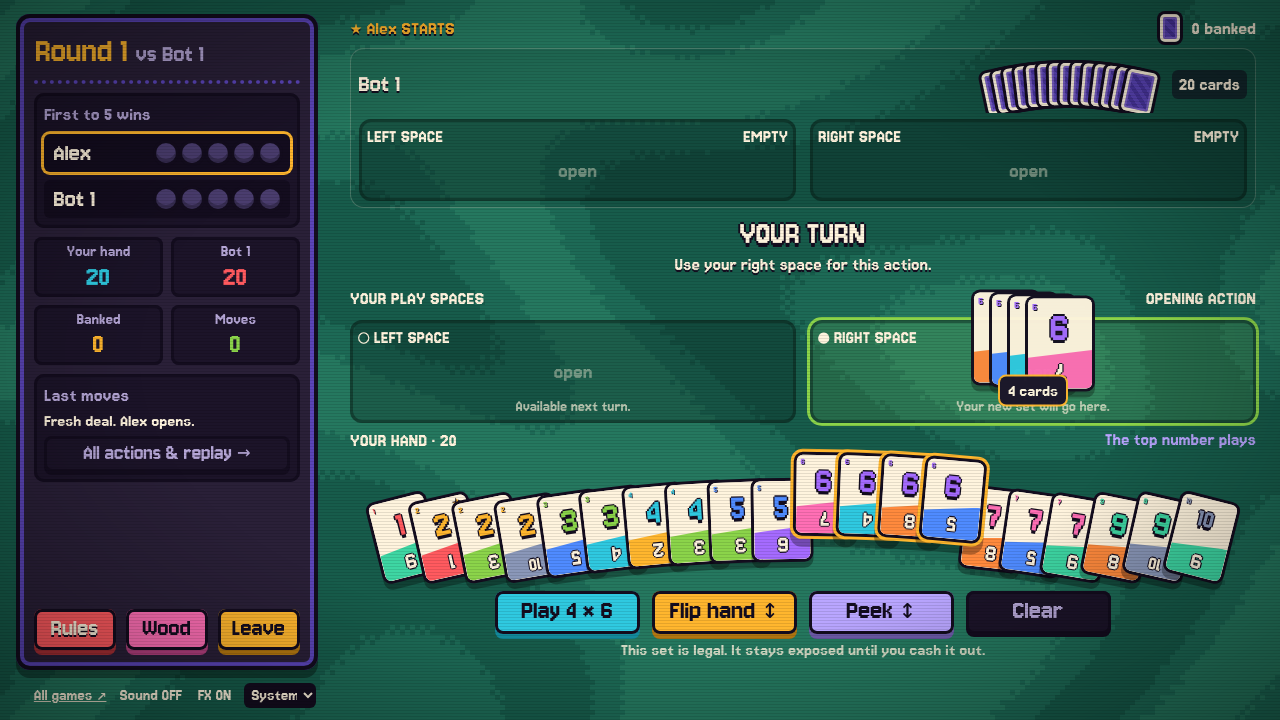
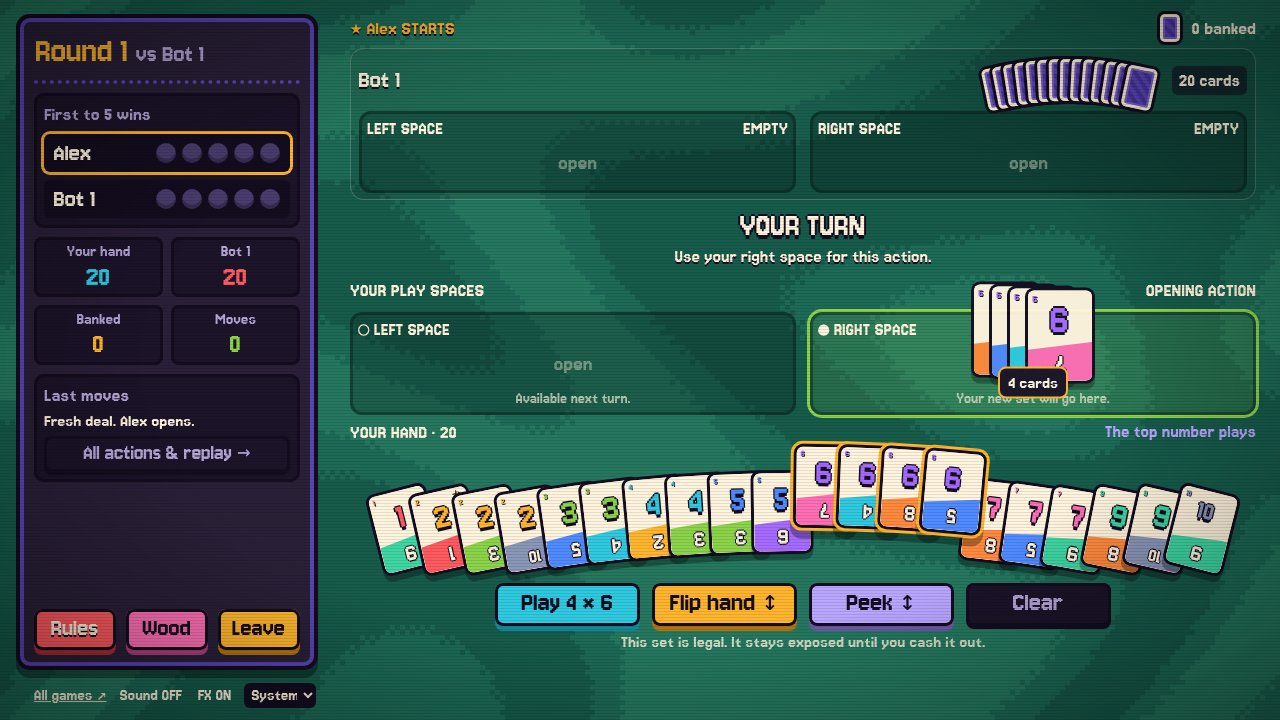
Finish touch drag handling and add browser UI regression checks

diff --git a/flip-it/src/app.js b/flip-it/src/app.js
@@ -559,22 +559,36 @@ document.addEventListener('pointerdown',event=>{
     if(view().table[owner][target].length)drag={pointer:event.pointerId,x:event.clientX,y:event.clientY,kind:'take',owner,target,source:space};
   }
 });
+function highlightDrop(current){
+  document.querySelectorAll('.drop-valid').forEach(n=>n.classList.remove('drop-valid'));
+  const at=document.elementFromPoint(current.pointerX,current.pointerY),action=dragAction(current,at);
+  if(action&&actionValid(current.actions,action))at.closest(action.kind==='take'?'.hand[data-hand-seat]':'[data-space-seat]')?.classList.add('drop-valid');
+}
+function scrollDrag(){
+  if(!drag?.ghost)return;
+  const edge=44,y=drag.pointerY,step=y<edge?-12:y>innerHeight-edge?12:0;
+  if(step){const previous=scrollY;window.scrollBy(0,step);if(scrollY!==previous)highlightDrop(drag);}
+  drag.frame=requestAnimationFrame(scrollDrag);
+}
 document.addEventListener('pointermove',event=>{
   if(!drag||drag.pointer!==event.pointerId)return;
   if(!drag.ghost&&Math.hypot(event.clientX-drag.x,event.clientY-drag.y)<8)return;
+  drag.pointerX=event.clientX;drag.pointerY=event.clientY;
   if(!drag.ghost){
     drag.ghost=dragPreview(drag);document.body.append(drag.ghost);document.body.classList.add('dragging');
     window.getSelection()?.removeAllRanges();
     drag.source.setPointerCapture?.(event.pointerId);
+    drag.actions=legalActions(view(),mySeat());drag.frame=requestAnimationFrame(scrollDrag);
   }
-  event.preventDefault();drag.ghost.style.left=event.clientX+'px';drag.ghost.style.top=event.clientY+'px';
-  document.querySelectorAll('.drop-valid').forEach(n=>n.classList.remove('drop-valid'));
-  const at=document.elementFromPoint(event.clientX,event.clientY),action=dragAction(drag,at);
-  if(action&&actionValid(legalActions(view(),mySeat()),action))at.closest(action.kind==='take'?'.hand[data-hand-seat]':'[data-space-seat]')?.classList.add('drop-valid');
+  event.preventDefault();
+  const ghostWidth=drag.ghost.offsetWidth,ghostHeight=drag.ghost.offsetHeight;
+  drag.ghost.style.left=Math.max(ghostWidth/2+4,Math.min(innerWidth-ghostWidth/2-4,event.clientX))+'px';
+  drag.ghost.style.top=Math.max(ghostHeight*.7+4,Math.min(innerHeight-ghostHeight*.3-4,event.clientY))+'px';
+  highlightDrop(drag);
 },{passive:false});
 function endDrag(event,cancel=false){
   if(!drag||drag.pointer!==event.pointerId)return;
-  const current=drag;drag=null;document.body.classList.remove('dragging');document.querySelectorAll('.drop-valid').forEach(n=>n.classList.remove('drop-valid'));
+  const current=drag;drag=null;cancelAnimationFrame(current.frame);document.body.classList.remove('dragging');document.querySelectorAll('.drop-valid').forEach(n=>n.classList.remove('drop-valid'));
   if(current.source.hasPointerCapture?.(event.pointerId))current.source.releasePointerCapture(event.pointerId);
   if(!current.ghost)return;
   current.ghost.remove();suppressDragClick=true;setTimeout(()=>suppressDragClick=false,0);
@@ -585,6 +599,7 @@ function endDrag(event,cancel=false){
 document.addEventListener('pointerup',event=>endDrag(event));
 document.addEventListener('pointercancel',event=>endDrag(event,true));
 window.addEventListener('blur',()=>{if(drag)endDrag({pointerId:drag.pointer},true);});
+document.addEventListener('keydown',event=>{if(event.key==='Escape'&&drag)endDrag({pointerId:drag.pointer},true);});
 document.addEventListener('click',event=>{if(suppressDragClick){event.preventDefault();event.stopImmediatePropagation();suppressDragClick=false;}},true);
 
 document.addEventListener('click',async event=>{

diff --git a/flip-it/style.css b/flip-it/style.css
@@ -2942,3 +2942,9 @@ input[type=range] { user-select:none; -webkit-user-select:none; }
   .last-moves { grid-column:1/-1; }
   .last-moves p { overflow-wrap:anywhere; }
 }
+.move-pop { max-width:calc(100vw - 32px); white-space:normal; text-align:center; font-size:clamp(24px,4vw,34px); }
+@media(hover:none) {
+  .flip-card:hover:not(:disabled) { transform:none; }
+  .flip-card.selected:hover { transform:translateY(-26px); }
+  .hand-card:hover:not(:has(.selected)) { z-index:auto; }
+}

diff --git a/flip-it/README.md b/flip-it/README.md
@@ -89,3 +89,9 @@ The HUD, cards, dialogs and arrow logo follow the supplied Felt mockups. **House
 Jersey 10/15 fonts are self-hosted in `assets/fonts/` with their SIL OFL licenses. The supplied procedural art was rendered to static PNGs in `assets/table/`; neither the mockup runtime nor its stand-in rules engine ships. The bank stack represents cards removed from play, not a draw pile. Drag matching cards onto your space, a single card onto a rival set to Add, or a rival set into your hand to Take; all use the same rule validation as buttons.
 
 The desktop table fits common laptop viewports, including 1280×720 and 1440×900, with larger hand cards on taller screens. Opponent sets open Add/Grab controls on tap; recent moves stay compact, and Chat & reactions opens a separate HUD dialog. Card drags support mouse and touch.
+
+## Browser UI regression checks
+
+With the local server running, `npm run test:ui` checks laptop and phone layouts, rules/settings/replay dialog scrolling, both deck sizes and turn modes, multi-card mouse/touch drags, invalid drop indicators, cancellation, per-card flights, and native replay slider dragging and keyboard focus. It uses real controls and the read-only, redacted diagnostics.
+
+Playwright and Chromium are optional test tools; neither ships with the game. Install Playwright in your development environment or set `PLAYWRIGHT_MODULE` to its module path. `CHROMIUM_PATH` selects a system browser; `CHROMIUM_NO_SANDBOX=1` supports isolated Linux test containers that require it. `FLIP_IT_URL` overrides the local server URL, and `FLIP_IT_ARTIFACTS` optionally writes fresh screenshots to a directory. The ordinary `npm test` remains dependency-free.
